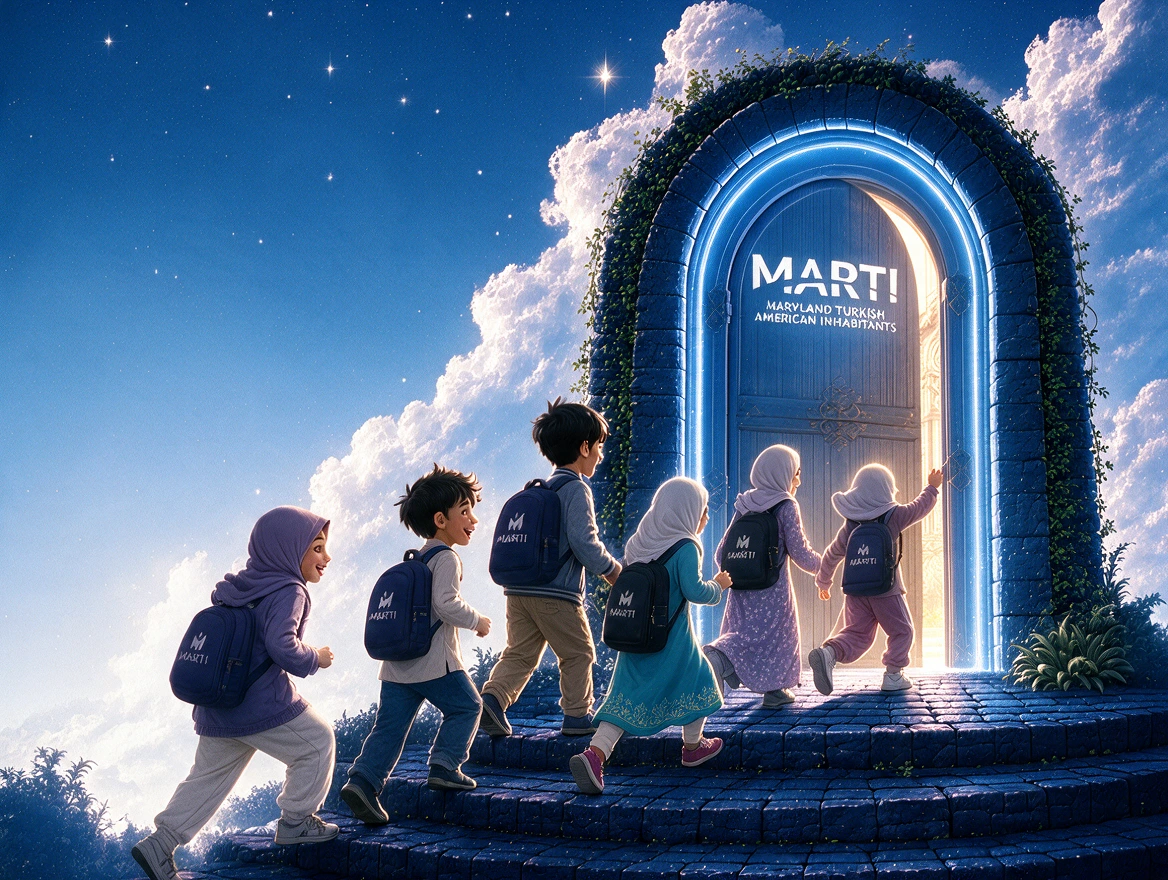
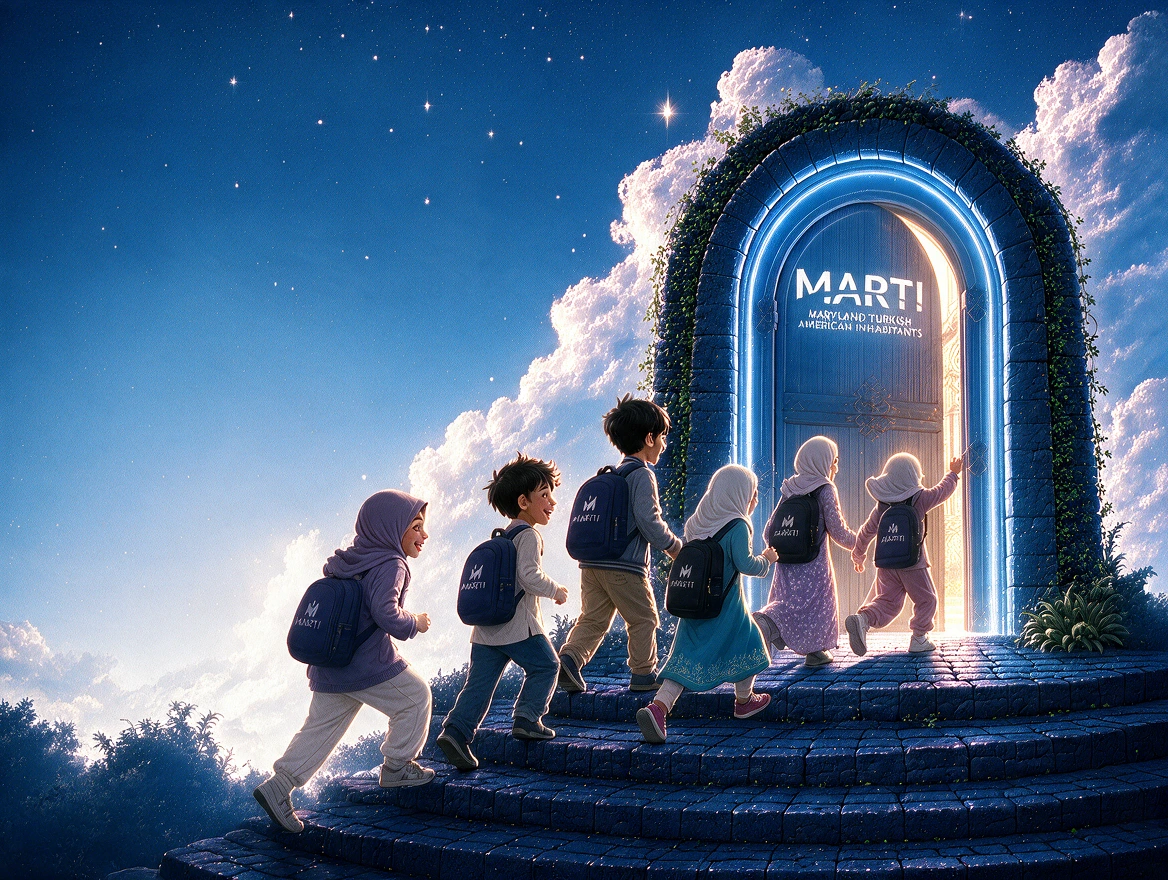
Swap in the wider framed hero artwork
The previous image sat tight to its subject, so the edge fades risked cutting
into a child. This version carries generous margins of sky on the left and
top and steps at the bottom, which is exactly where the short fades want to
land. Same 1168px native width, no upscaling.

diff --git a/src/components/sections/HeroSection.tsx b/src/components/sections/HeroSection.tsx
@@ -59,13 +59,10 @@ export function HeroSection() {
           className="absolute inset-y-0 right-0 hidden w-[52%] lg:block"
         >
           {/*
-            `cover` rather than `contain`: with contain the artwork sat inside
-            the box with empty margins, so the mask faded those margins and
-            left the picture's own edges showing as hard lines. Filling the
-            box puts the image edges exactly where the fade happens.
-
-            The fades are deliberately short, roughly a tenth of each side, so
-            the picture stays crisp and only the last sliver softens.
+            This artwork carries wide empty margins of sky and steps, so the
+            short fades land on background rather than clipping a child. Cover
+            fills the box, which is what puts the image edges where the mask
+            expects them.
           */}
           <div
             className="absolute inset-0 bg-[url('/hero.webp')] bg-cover bg-center bg-no-repeat"
